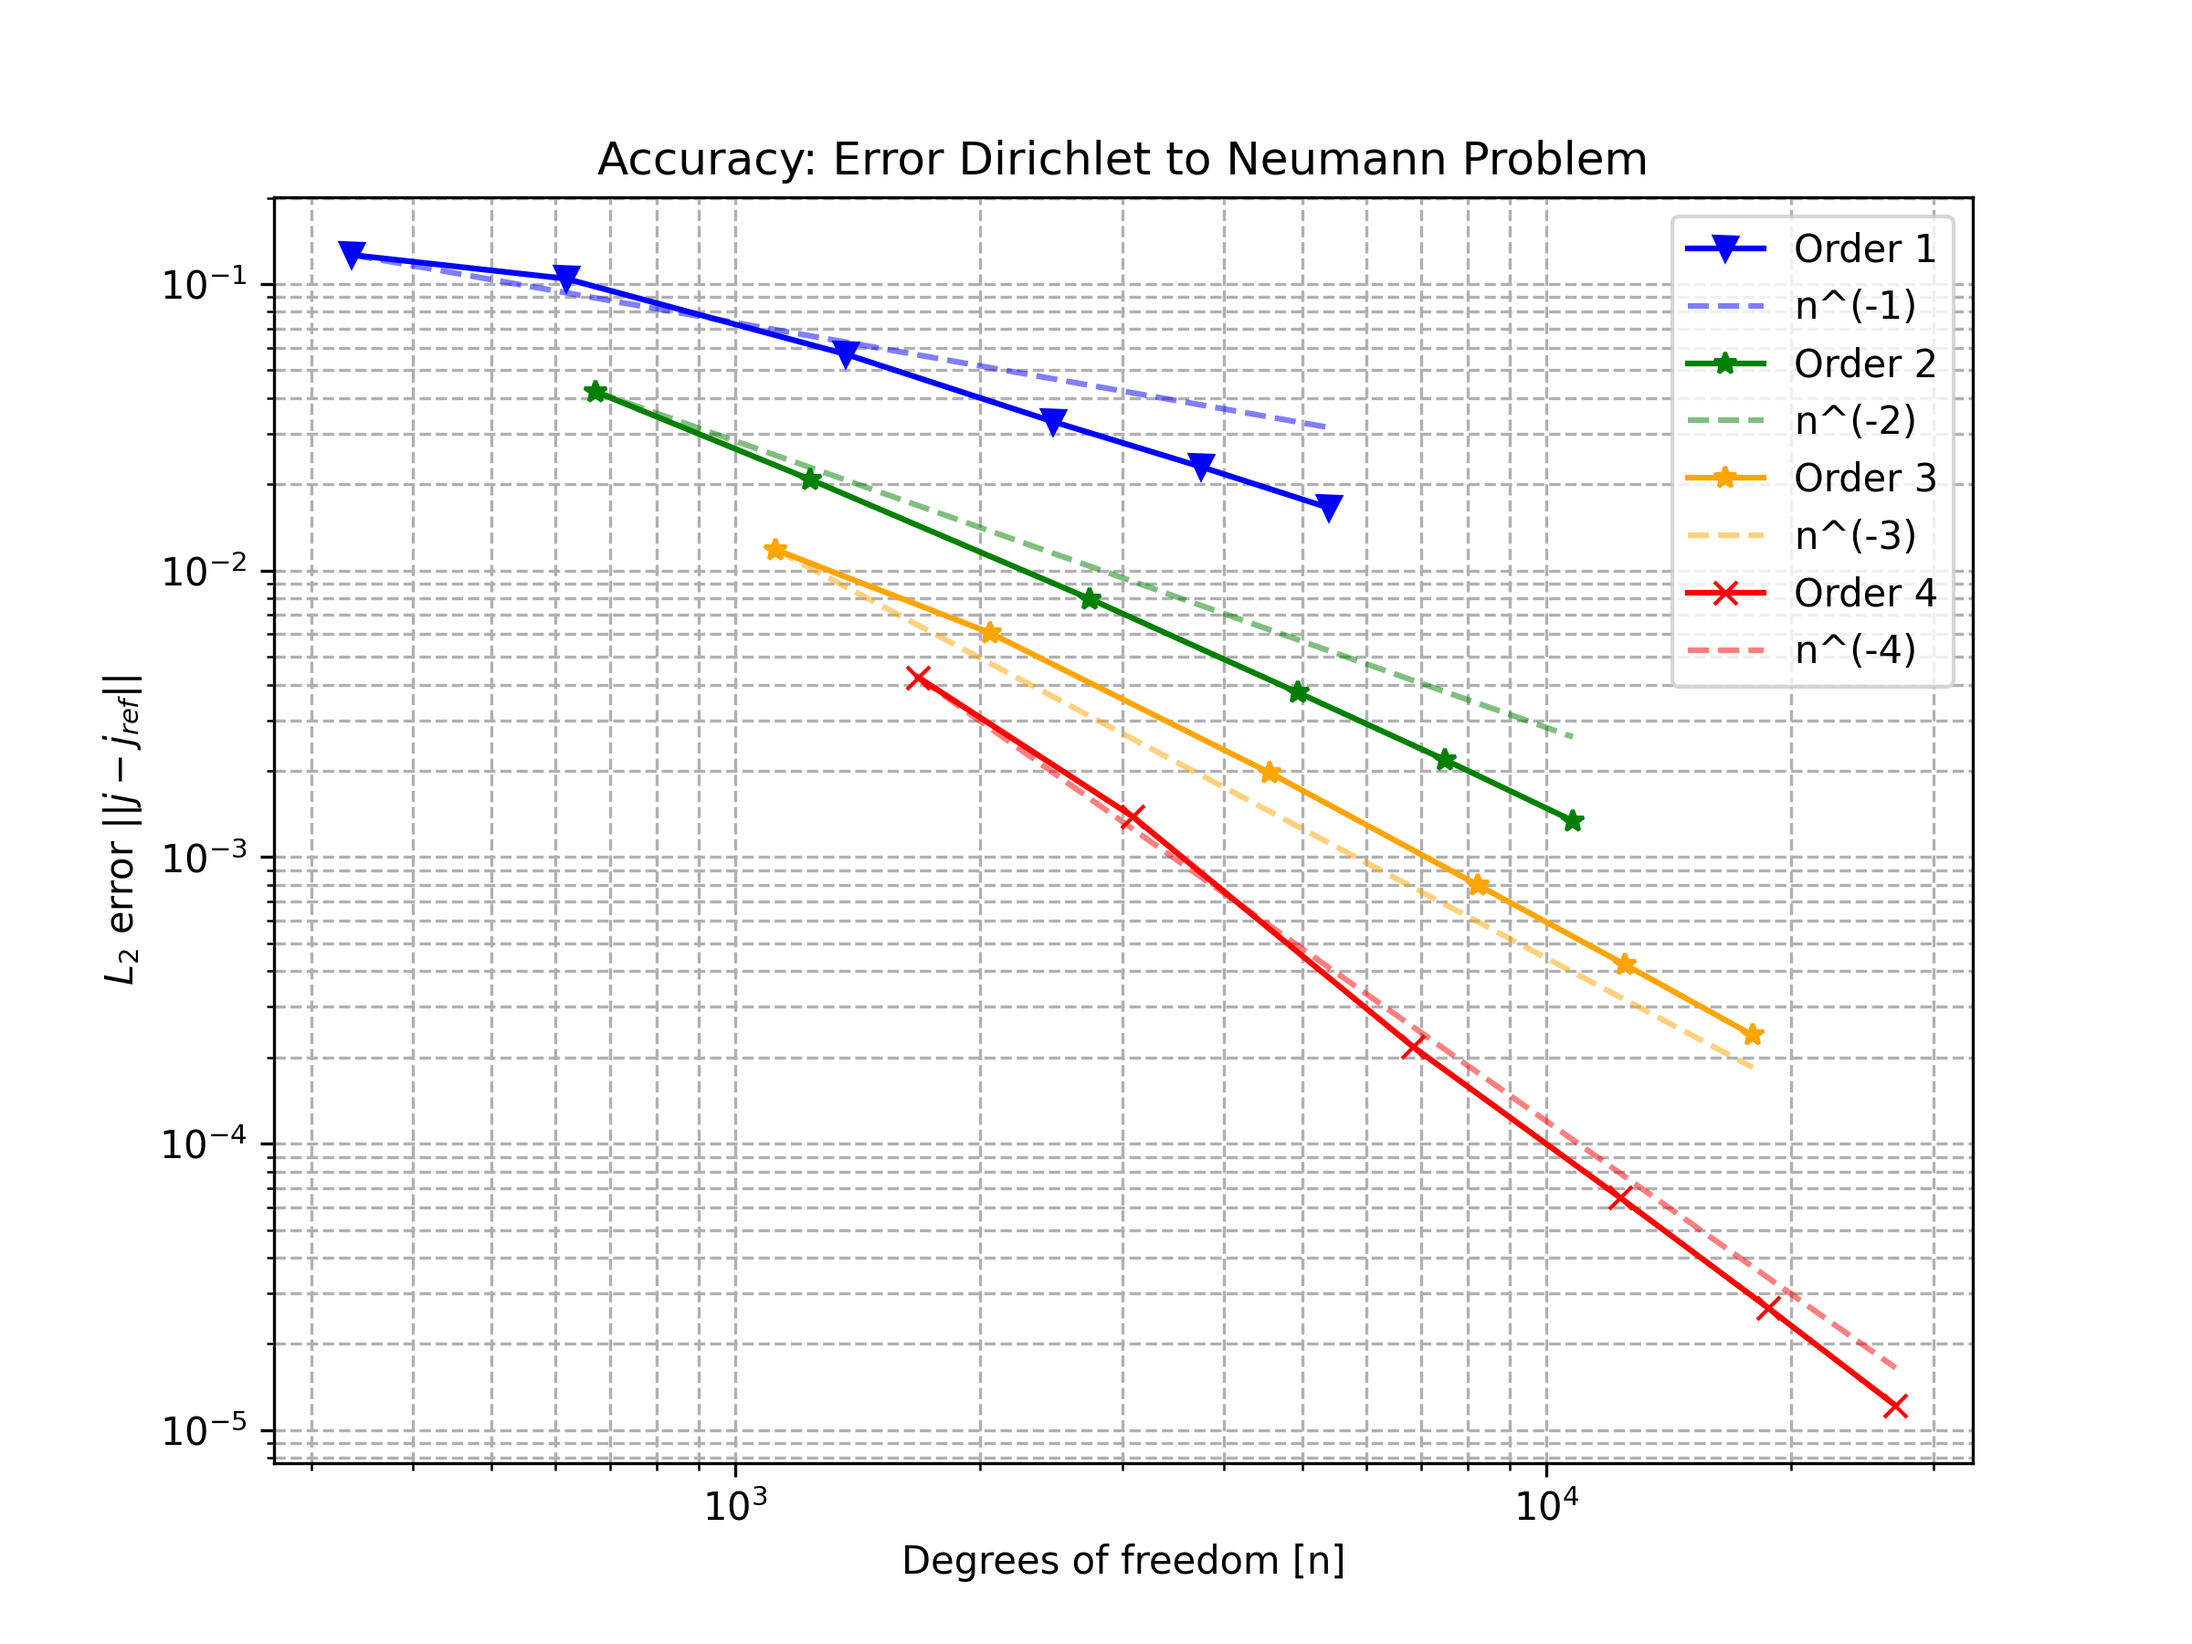
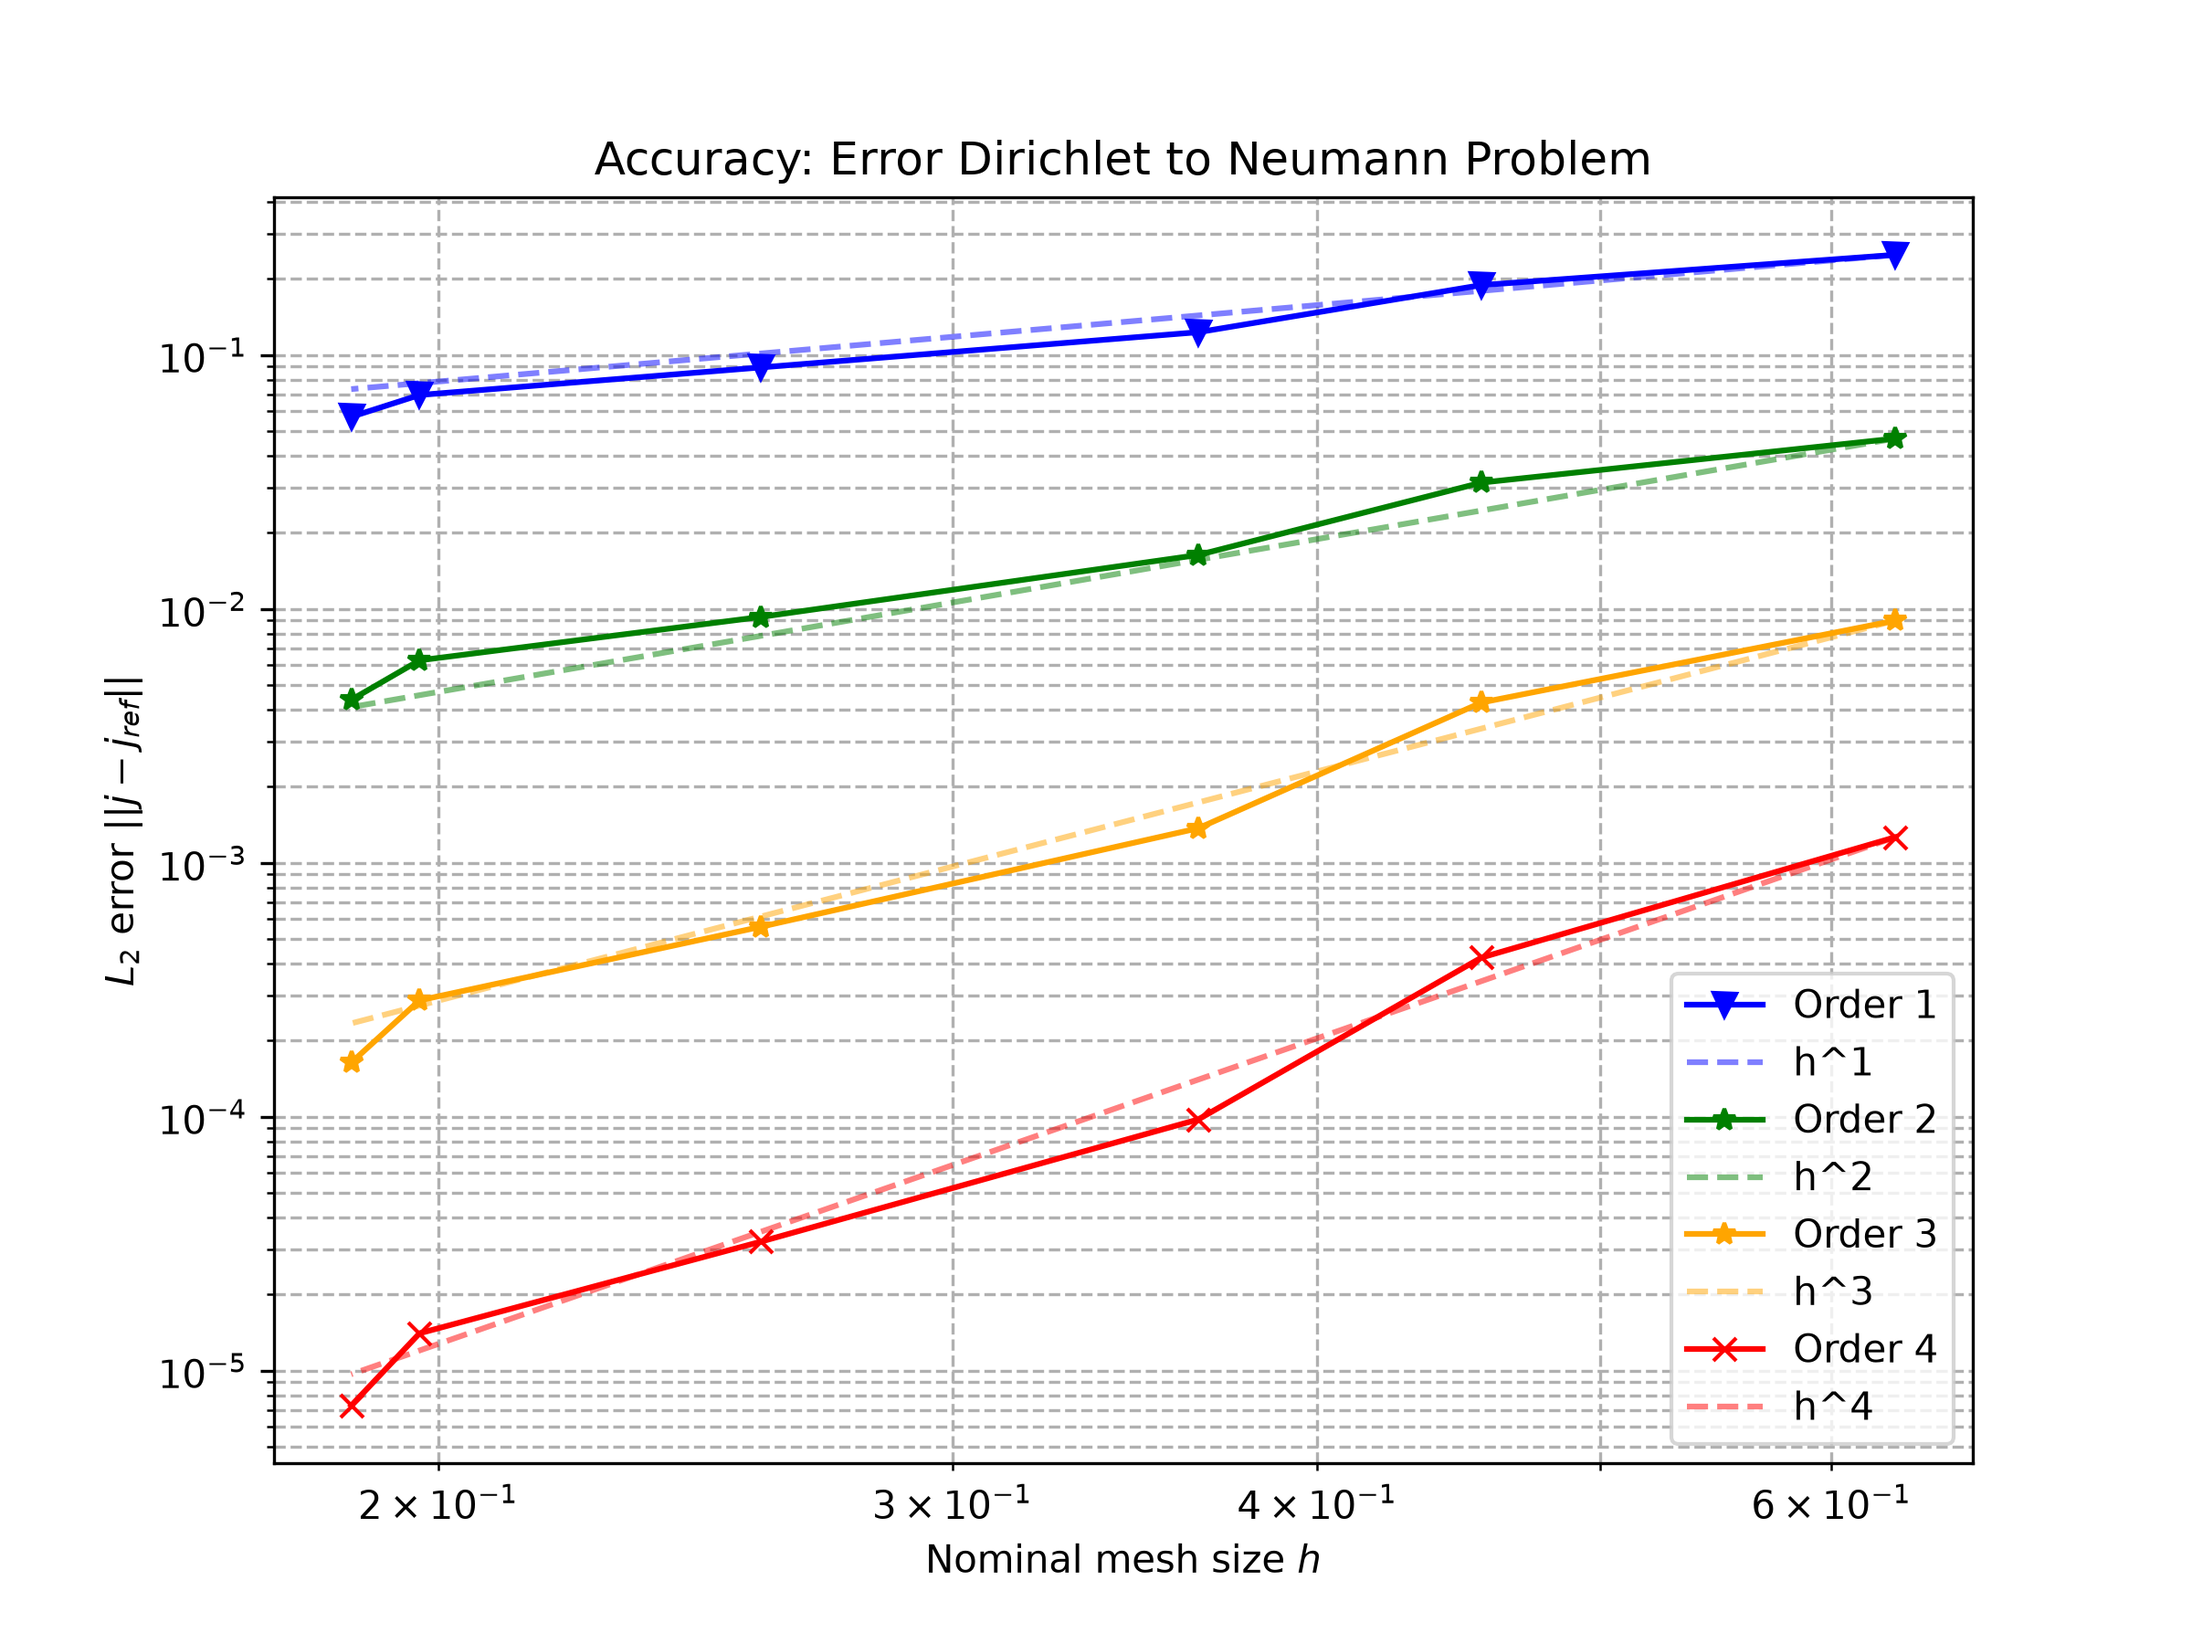
update converence plots: use h instead of ndof

diff --git a/docu/short_and_sweet/ho_cvg.md b/docu/short_and_sweet/ho_cvg.md
@@ -25,7 +25,7 @@ as unique solution of the Neumann boundary value problem
 |:-:|:-:|
 |$\left\{ \begin{array}{rcl l} \Delta u &=& 0, \quad  & \mathrm{in} \, \Omega\,, \\ \gamma_1 u &=& u_1, \quad & \mathrm{on} \, \Gamma\,. \end{array} \right.\quad\quad\quad$    |  ![](resources/BEM_interior.png)  |
 
-Let $\Omega$ be the unit ball and $\Gamma$ the unit sphere, respectively. Using the NGSBEM solver we compute the Dirichlet data for varying order $p$ on a sequence of meshes with decreasing mesh size, i.e., $h \sim\frac1N$. As the exact solution is kown, we can compute the absolute $L_2$-error of the numerical solution. This experiment is a proof of concept demonstrating examplarily the high order convergence rates that you can get with of a high order BEM solving for the Dirchlet trace:
+Let $\Omega$ be the unit ball and $\Gamma$ the unit sphere, respectively. Using the NGSBEM solver we compute the Dirichlet data for varying order $p$ on a sequence of meshes with decreasing mesh size. As the exact solution is kown, we can compute the absolute $L_2$-error of the numerical solution. This experiment is a proof of concept demonstrating examplarily the high order convergence rates that you can get with of a high order BEM solving for the Dirchlet trace:
 
 
 ![](resources/laplace_NtD_accuracy.png) 
@@ -43,7 +43,7 @@ To analyse convergence rates for traces in $H^{-\frac12}(\Gamma)$ consider now t
 |:-:|:-:|
 |$\left\{ \begin{array}{rcl l} \Delta u &=& 0, \quad  & \mathrm{in} \, \Omega\,, \\ \gamma_0 u &=& u_0, \quad & \mathrm{on} \, \Gamma\,. \end{array} \right. \quad \quad\quad$    |  ![](resources/BEM_interior.png)  |
 
-Thus, again $u$ from Test 1 is the unique solution of this problem. Using the NGSBEM solver we compute the Neumann data for varying order $p$  on a sequence of meshes with decreasing mesh size, i.e., $h \sim\frac1N$. As the exact solution is kown, we compute the absolute $L_2$-error of the numerical solution. This experiment is a proof of concept demonstrating examplarily the high order convergence rates that you can get with of a high order BEM solving for the Dirchlet trace:
+Thus, again $u$ from Test 1 is the unique solution of this problem. Using the NGSBEM solver we compute the Neumann data for varying order $p$  on a sequence of meshes with decreasing mesh size. As the exact solution is kown, we compute the absolute $L_2$-error of the numerical solution. This experiment is a proof of concept demonstrating examplarily the high order convergence rates that you can get with of a high order BEM solving for the Dirchlet trace:
 
 
 
@@ -70,7 +70,7 @@ The scattered electric field $\boldsymbol E$ solves the following boundary value
 |$ \left\{ \begin{array}{rcl l} \mathbf{\mathrm{curl}}\,\mathbf{\mathrm{curl}}\, \boldsymbol E - \kappa^2 \, \boldsymbol E&=& \boldsymbol 0, \quad  & \mathrm{in} \, \Omega^c\,, \\ \gamma_R \boldsymbol E &=& \boldsymbol E_{\mathrm{inc}}, \quad & \mathrm{on} \, \Gamma\,, \\ \textnormal{ + radiation  condition} & & &\|x\| \to \infty\,. \end{array} \right. \quad\quad\quad$    |  ![](resources/BEM_exterior.png)  |
 
 
-Using the NGSBEM solver we compute the Neumann data for varying order $p$ on a sequence of meshes with decreasing mesh size i.e., $h \sim\frac1N$. The mesh is approximated with curvilinear elements of order $4$. As the exact solution for Mie-scattering kown, we compute the absolute $L_2$-error of the numerical solution.  This experiment is a proof of concept demonstrating examplarily the high order convergence rates that you can get with of a high order BEM solving for the surface current density:
+Using the NGSBEM solver we compute the Neumann data for varying order $p$ on a sequence of meshes with decreasing mesh size. The mesh is approximated with curvilinear elements of order $4$. As the exact solution for Mie-scattering kown, we compute the absolute $L_2$-error of the numerical solution.  This experiment is a proof of concept demonstrating examplarily the high order convergence rates that you can get with of a high order BEM solving for the surface current density:
 
 
 ![](resources/maxwell_mie_accuracy.png) 
